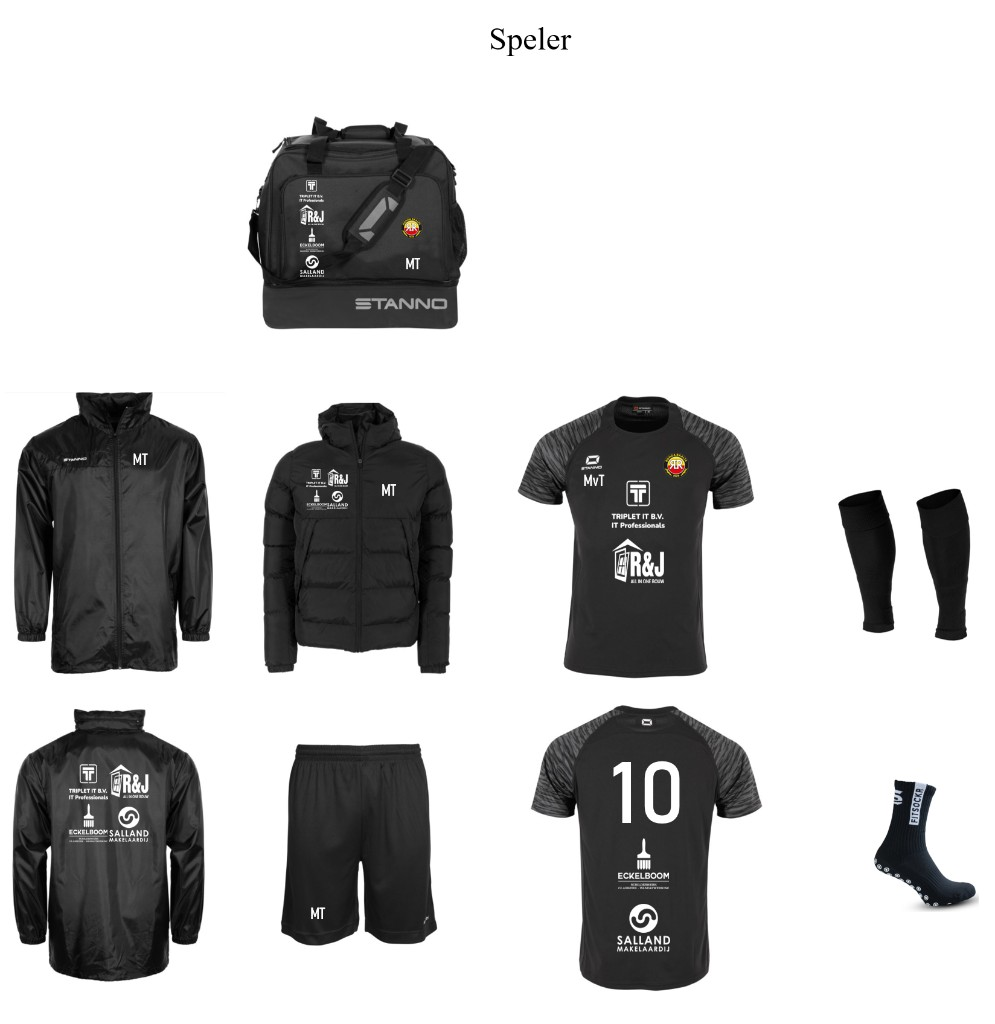
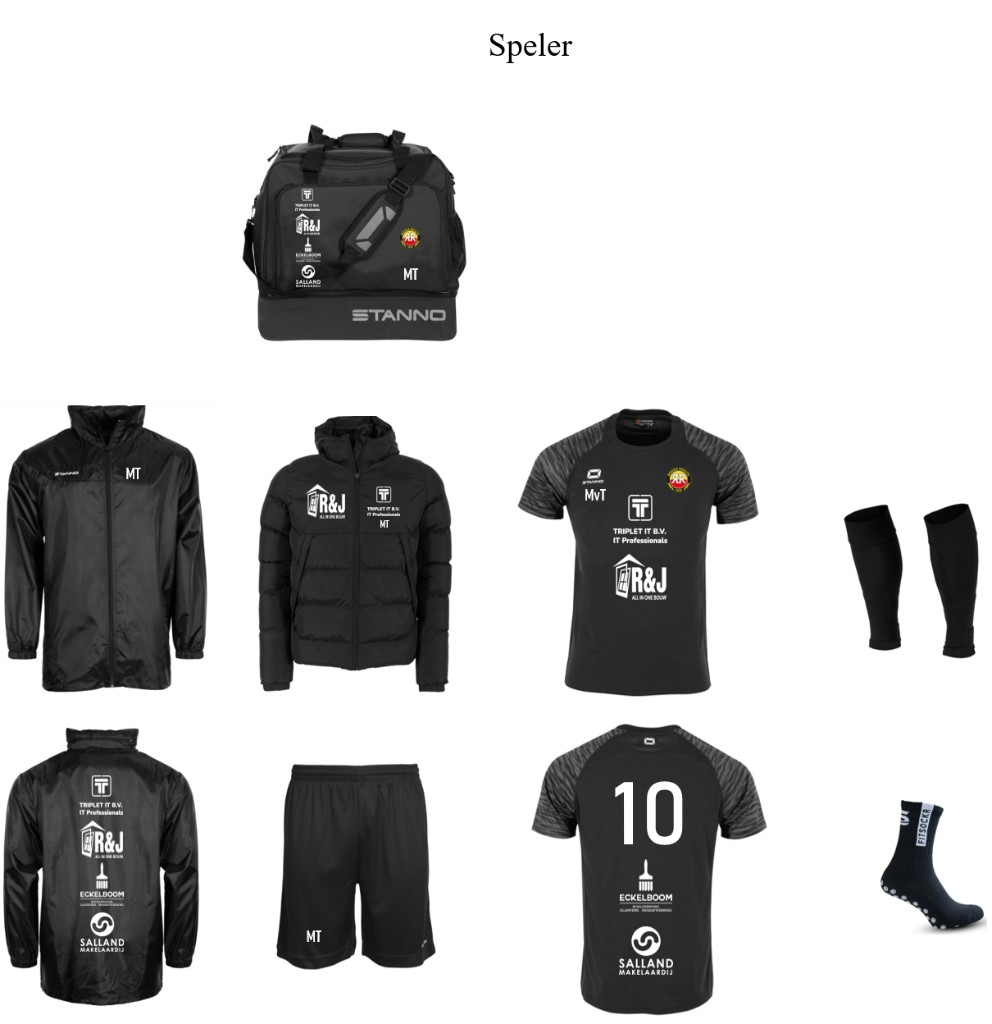
Vervang de speler- en kaderfoto’s door de nieuwe set.

diff --git a/ouder.php b/ouder.php
@@ -212,11 +212,11 @@ body{
     <section class="kit-design">
       <?php if ($isStaff): ?>
       <figure>
-        <img src="<?= assetUrl('kader-kit.png') ?>" width="528" height="1024" alt="Kadertenue 14-2: polo, shirt, jas en broekje">
+        <img src="<?= assetUrl('kader-kit.png') ?>" width="522" height="1024" alt="Kadertenue 14-2: padded, shirt, polo en broekje">
       </figure>
       <?php else: ?>
       <figure>
-        <img src="<?= assetUrl('speler-kit.png') ?>" width="1023" height="1024" alt="Spelerstenue 14-2: shirt, broekje, jassen, tas en sokken">
+        <img src="<?= assetUrl('speler-kit.png') ?>" width="992" height="1024" alt="Spelerstenue 14-2: tas, jassen, shirt, broekje, footless en gripsokken">
       </figure>
       <?php endif; ?>
     </section>

diff --git a/index.php b/index.php
@@ -1235,10 +1235,10 @@ details.shop-more[open] > summary{margin-bottom:10px;color:var(--accent-text)}
 
   <section class="kit-design" id="design">
     <figure>
-      <img src="<?= assetUrl('speler-kit.png') ?>" width="1023" height="1024" alt="Spelerstenue 14-2: shirt, broekje, jassen, tas en sokken">
+      <img src="<?= assetUrl('speler-kit.png') ?>" width="992" height="1024" alt="Spelerstenue 14-2: tas, jassen, shirt, broekje, footless en gripsokken">
     </figure>
     <figure>
-      <img src="<?= assetUrl('kader-kit.png') ?>" width="528" height="1024" alt="Kadertenue 14-2: polo, shirt, jas en broekje">
+      <img src="<?= assetUrl('kader-kit.png') ?>" width="522" height="1024" alt="Kadertenue 14-2: padded, shirt, polo en broekje">
     </figure>
   </section>
 
